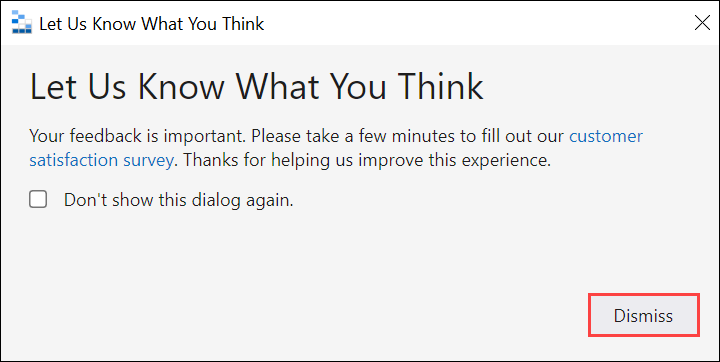
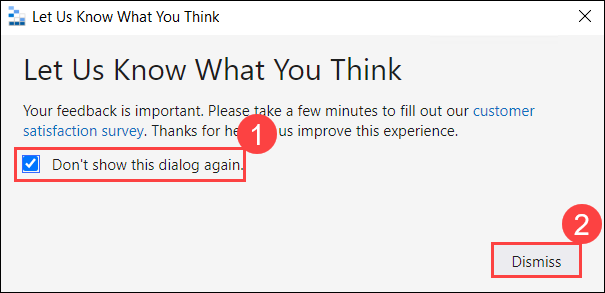
update

diff --git a/04-conversational-ai/04-conversational-ai-new.md b/04-conversational-ai/04-conversational-ai-new.md
@@ -1,4 +1,4 @@
-# Lab 4 - Conversational AI with Microsoft Copilot Studio
+# Lab 4: Conversational AI with Microsoft Copilot Studio
 
 ### Estimated Duration: 1 Hour 30 Minutes
 
@@ -8,12 +8,12 @@ Conversational AI with Microsoft Copilot Studio allows users to create and deplo
 
 ## Lab Objectives
 
-- Task 1 - Explore lab scenario
-- Task 2 - Setting up Microsoft Copilot Studio and Create your first Copilot
-- Task 3 - Create a New Topic
-- Task 4 - Test your Copilot
+- Task 1: Explore lab scenario
+- Task 2: Setting up Microsoft Copilot Studio and Create your first Copilot
+- Task 3: Create a New Topic
+- Task 4: Test your Copilot
 
-## Task 1 - Explore lab scenario
+## Task 1: Explore lab scenario
 
 The power of Machine Learning also comes into play when dealing with human-to-machine interfaces. While classical interfaces like native or web applications are ubiquitous, the new approaches based on conversational AI are becoming increasingly popular. Having the capability to interact with intelligent services using natural language is quickly becoming the norm rather than the exception. Using Conversational AI, analysts can find the research of interest by using simple natural language phrases.
 
@@ -23,7 +23,7 @@ The way organizations are building conversational systems is evolving, with bots
 
 ![Architecture for Lab 4](media/ai-workflow.png)
 
-## Task 2 - Setting up Microsoft Copilot Studio and Create your first Copilot
+## Task 2: Setting up Microsoft Copilot Studio and Create your first Copilot
 
 1. Navigate to **[Microsoft Copilot Studio page](https://www.microsoft.com/en-us/copilot/microsoft-copilot-studio)** `https://www.microsoft.com/en-us/copilot/microsoft-copilot-studio` and select **Try for free**. 
 
@@ -71,7 +71,7 @@ The way organizations are building conversational systems is evolving, with bots
     ![](media/Lab4-01.png)
 
 
-## Task 3 - Create a New Topic
+## Task 3: Create a New Topic
 
 1. On the **Microsoft Copilot Studio** page, select **Topics** **(1)**, click on **Add a topic** **(2)**, and from the drop down menu select **Add from description with Copilot** **(3)**.
 
@@ -135,14 +135,14 @@ The way organizations are building conversational systems is evolving, with bots
 
     ![](media/Lab4-12.png)
 
-   > **Congratulations** on completing the task! Now, it's time to validate it. Here are the steps:
-   > - Hit the Validate button for the corresponding task.
-   > - If you receive a success message, you can proceed to the next task. If not, carefully read the error message and retry the step, following the instructions in the lab guide.
-   > - If you need any assistance, please contact us at cloudlabs-support@spektrasystems.com. We are available 24/7 to help you out.
+> **Congratulations** on completing the task! Now, it's time to validate it. Here are the steps:
+> - Hit the Validate button for the corresponding task.
+> - If you receive a success message, you can proceed to the next task. If not, carefully read the error message and retry the step, following the instructions in the lab guide.
+> - If you need any assistance, please contact us at cloudlabs-support@spektrasystems.com. We are available 24/7 to help you out.
 
-   <validation step="1f3092c6-421b-4e88-8fe6-b5cb70ca1396" />
+<validation step="1f3092c6-421b-4e88-8fe6-b5cb70ca1396" />
 
-## Task 4 - Test your Copilot
+## Task 4: Test your Copilot
 
 1. Once the Topic is saved, click on **Test Copilot (1)** from the right-top corner.
 
@@ -164,8 +164,10 @@ Now you have successfully created and tested the Microsoft Copilot.
 
 In this lab, you set up Microsoft Copilot Studio, created your first Copilot, and tested it by developing and validating a new topic.
 
-## You have successfully completed this Lab!
+### Conclusion
+
 By completing the **Innovate with Ai** Hands-On lab, you have successfully designed and implemented an end-to-end AI solution using Azure's powerful suite of services. You have achieved the classification of COVID-19 research papers through Azure Automated ML, enabling automated and scalable machine learning workflows. You applied Natural Language Processing techniques to extract and summarize key insights from unstructured documents, improving accessibility and comprehension. Through Azure AI Search, you enabled intelligent indexing and semantic search across a large dataset, and finally, you built a no-code Conversational AI interface using Microsoft Copilot Studio, allowing users to interact with the research corpus through natural language.
 
 This hands-on experience has equipped you with practical skills in AI solution development on Azure, demonstrating how multiple AI services can be integrated to solve complex, real-world problems efficiently.
 
+### You have successfully completed this Hands-on Lab!

diff --git a/03-knowledge-mining/2-document-processing-and-summarization.md b/03-knowledge-mining/2-document-processing-and-summarization.md
@@ -486,7 +486,7 @@ The high-level steps covered in the lab are:
 
 <validation step="24474dca-c3ab-413f-ba34-eb278f3c895f" />
 
-## Task 7 - Document Summarization via AI Service for Language Integration
+## Task 7: Document Summarization via AI Service for Language Integration
 
 Summarization is one of the features offered by [Azure AI Service for Language](https://docs.microsoft.com/en-us/azure/AI-services/language-service/overview), a collection of machine learning and AI algorithms in the cloud for developing intelligent applications that involve written language. Use this article to learn more about this feature, and how to use it in your applications.
 
@@ -548,8 +548,6 @@ You can find more references about Document Summarization from here: [Quickstart
 
 In this lab, you have explored Azure Document Intelligence and AI Services and extracted, analyzed, and summarized key information from documents.
 
-### You have successfully completed the lab!
-
-### Click the **Next >>** button in the Guide section to move on to Lab 3.
+### You have successfully completed the Lab 2. Click on Next >> to proceed with the next Lab.
 
 ![](./media/nextpage3.png)

diff --git a/01-aml-model-training/01-aml-model-training-new-v2.md b/01-aml-model-training/01-aml-model-training-new-v2.md
@@ -424,9 +424,7 @@ Responsible AI is a governance framework that documents how a specific organizat
 
 In this lab, you explore the COVID-19 data dashboard, set up and prepare your Azure Machine Learning workspace, train and evaluate a model using Automated ML, and generate and analyze a Responsible AI dashboard.
 
-### You have successfully completed the lab!
-
-### Click the Next >> button in the Guide section to move on to Lab 2.
+### You have successfully completed the Lab 1. Click on Next >> to proceed with the next Lab.
 
 ![](./media/nextpage2.png)
 
